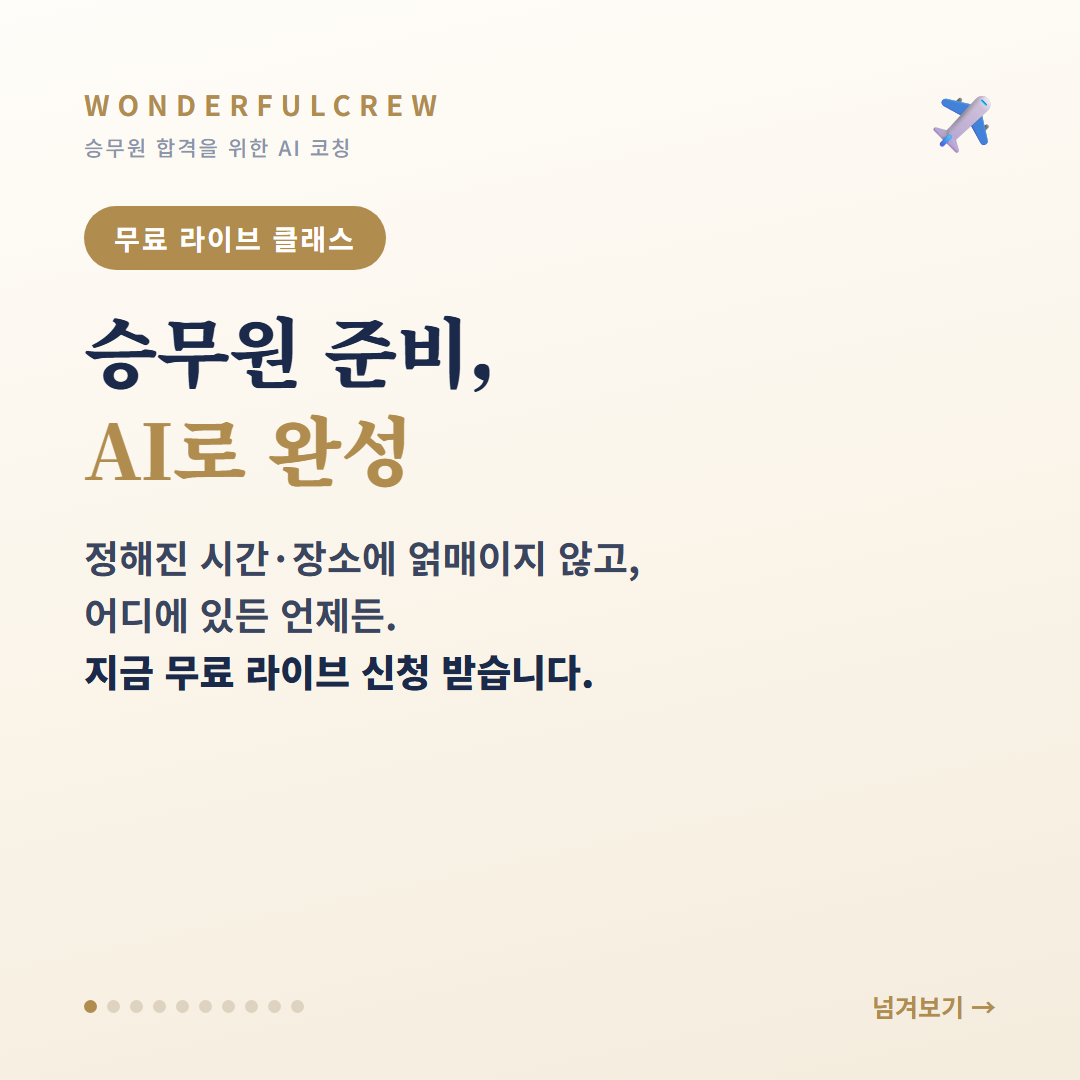
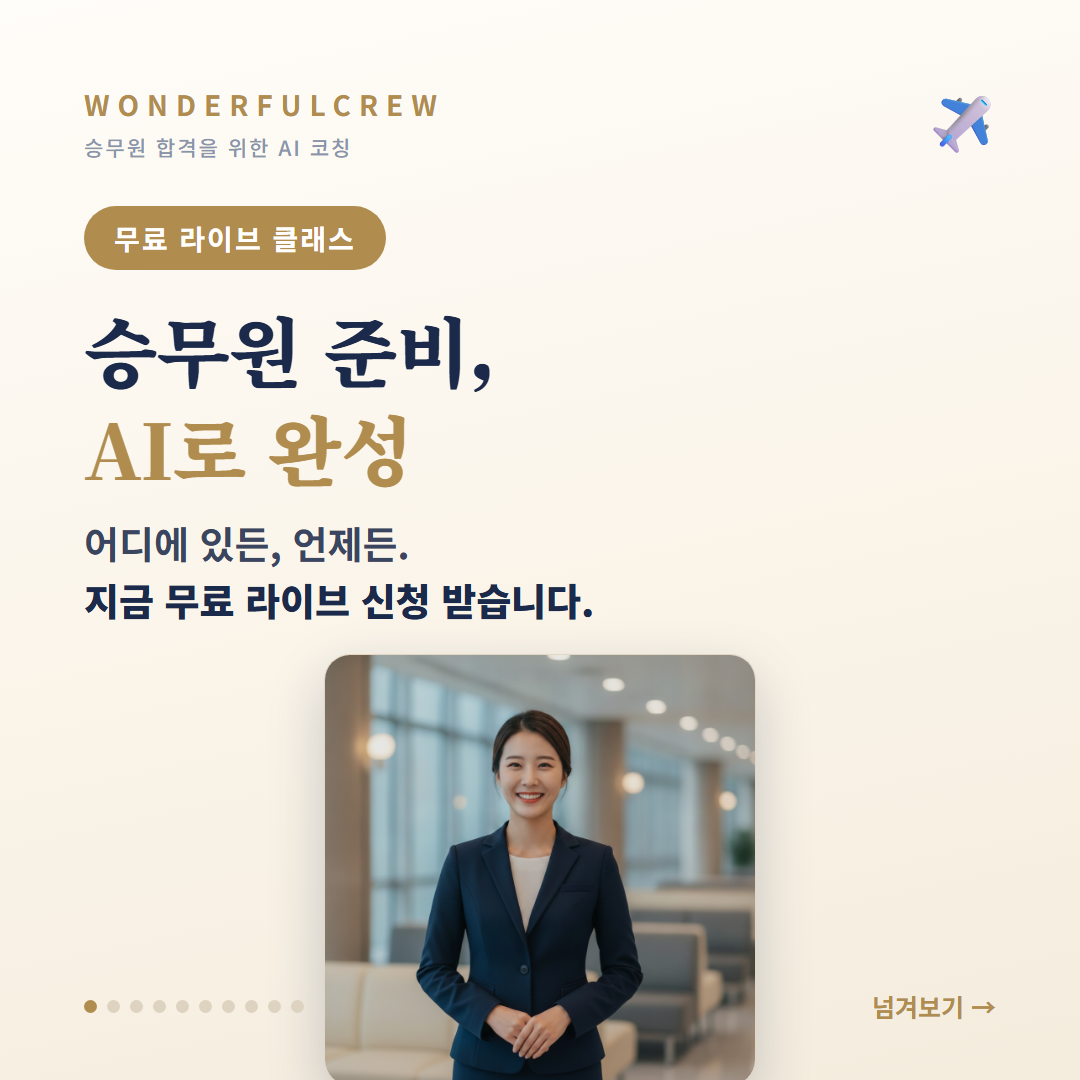
무료 라이브 카드뉴스 커버에 승무원 미소 사진 추가(텍스트만→이미지 포함) + 재렌더

Changed region(s): [[0.0611, 0.4889, 0.7028, 1.0]]

diff --git a/insta-cards-live.html b/insta-cards-live.html
@@ -44,7 +44,8 @@ h2{font-family:'Noto Serif KR',serif;font-size:56px;line-height:1.32;font-weight
   <div class="plane">✈</div>
   <div class="kicker">무료 라이브 클래스</div>
   <h1>승무원 준비,<br><span class="gold">AI로 완성</span></h1>
-  <div class="lead">정해진 시간·장소에 얽매이지 않고,<br>어디에 있든 언제든.<br><b style="color:#1b2a4a;">지금 무료 라이브 신청 받습니다.</b></div>
+  <div class="lead" style="margin-top:16px;">어디에 있든, 언제든.<br><b style="color:#1b2a4a;">지금 무료 라이브 신청 받습니다.</b></div>
+  <div class="shot" style="width:432px;margin:26px auto 0;"><img src="images/blog-photo-crew-lounge.png" alt="승무원"></div>
   <div class="foot"><div class="dots"><i class="on"></i><i></i><i></i><i></i><i></i><i></i><i></i><i></i><i></i><i></i></div><div class="swipe">넘겨보기 →</div></div>
 </section>
 
